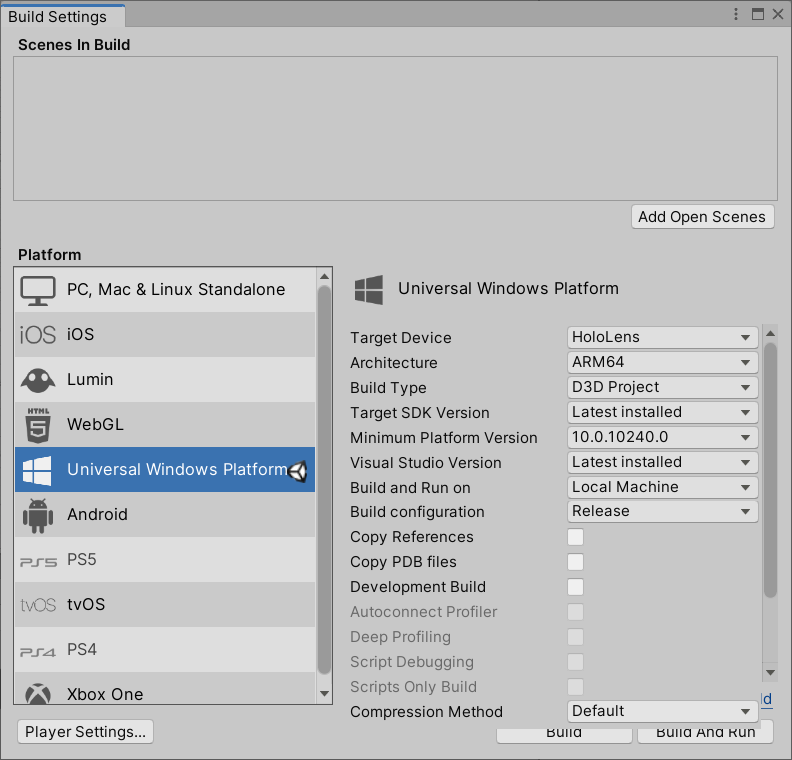
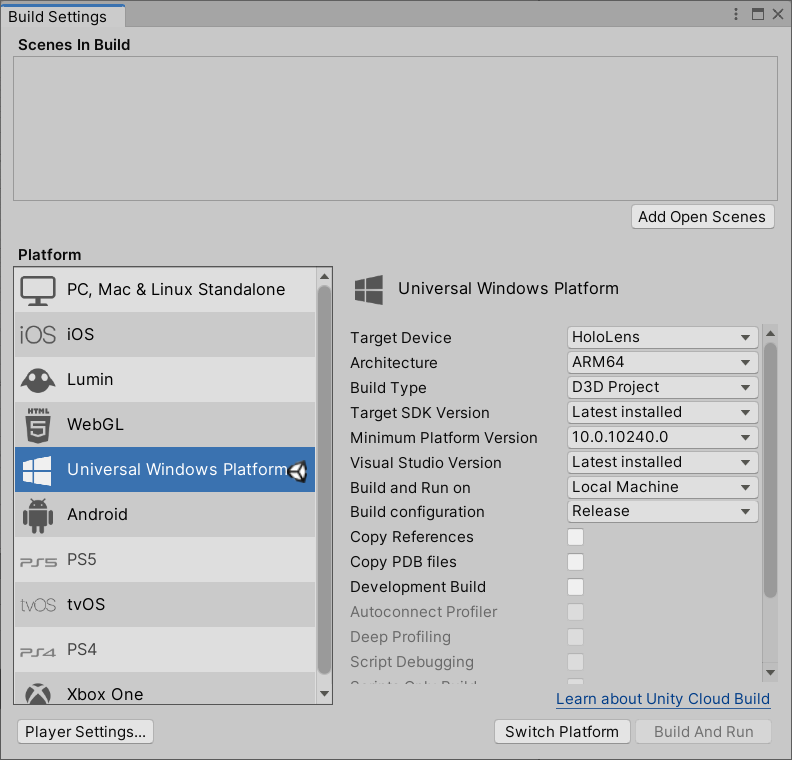
vt-review-edits-042022-1523

Changed region(s): [[0.4545, 0.8776, 0.9697, 0.9684]]

diff --git a/mixed-reality-docs/mr-dev-docs/develop/unity/new-openxr-project-with-mrtk.md b/mixed-reality-docs/mr-dev-docs/develop/unity/new-openxr-project-with-mrtk.md
@@ -17,11 +17,17 @@ The easiest way to get your Unity project set up for mixed reality is with the [
 MRTK provides a cross-platform input system, foundational components, and common building blocks for spatial interactions. It can help you speed up your application development for Microsoft HoloLens, Windows Mixed Reality immersive (VR) headsets, and many other VR/AR devices. The project is aimed at reducing barriers to entry, enabling everyone to build mixed reality applications and contribute back to the community as we all grow.
 
 MRTK supports a wide range of platforms, including:
+
     - Microsoft HoloLens
+
     - Microsoft HoloLens 2
+
     - Windows Mixed Reality headsets
+
     - OpenVR headsets (HTC Vive / Oculus Rift)
+
     - Ultraleap Hand Tracking
+
     - Android and iOS devices
 
 > [!NOTE]
@@ -34,9 +40,7 @@ MRTK supports a wide range of platforms, including:
    > [!IMPORTANT]
    > Using this plugin in Unity 2019 is not compatible with Azure Spatial Anchors.
 
-**Legacy XR**:
-
-If you're still on Unity 2019 or earlier, Microsoft recommends using the Legacy Built-in XR support. While the Windows XR plugin is functional on Unity 2019, we don't recommend it  because it's not compatible with Azure Spatial Anchors on Unity 2019.
+**Legacy XR**: If you're still on Unity 2019 or earlier, Microsoft recommends using the Legacy Built-in XR support. While the Windows XR plugin is functional on Unity 2019, we don't recommend it  because it's not compatible with Azure Spatial Anchors on Unity 2019.
 
 If you're starting a new project, we recommend that you install Unity 2020 instead and use the Mixed Reality OpenXR plugin.
 
@@ -64,15 +68,21 @@ If you're starting a new project, we recommend that you install Unity 2020 inste
 > [!CAUTION]
 > When working on Windows, there is a MAX_PATH limit of 255 characters. Unity is affected by these limits and may fail to compile if any file path is longer than 255 characters. Therefore, we recommend that you store your Unity project as close to the root of the drive as possible.
 
-## Configure your project for Windows Mixed Reality
+## Set your build target
 
-**Switch Build Platform**
+1. On the menu bar, select **File** > **Build Settings...**.
 
-To target Windows Mixed Reality, your Unity project must be set to export as a Universal Windows Platform app. By default, the build settings for the Universal Windows Platform target any device, including immersive headsets. However, you can select a specific device using the **Target Device** drop down.
+To build an app for Windows Mixed Reality, you must choose a build target. The build settings for Universal Windows Platform (UWP) target any device, including immersive headsets like the [HP Reverb G2](d/hp-reverb-g2-vr-headset/93qb262d0514?activetab=pivot:overviewtab). This is the best choice if you're building for the HoloLens 2; however, if you're targeting desktop VR, we recommend that you use the **PC, Mac & Linux Standalone** platform.
 
-1. In the menu bar, select **File** > **Build Settings...**.
-1. In the **Build Settings** window under **Platform**, select **Universal Windows Platform**.
-1. Make sure the following settings are active:
+1. Do one of the following:
+
+    **If you're targeting Desktop VR**:
+    - Keep the **PC, Mac & Linux Standalone** platform which is selected by default on a new Unity project:
+
+    ![Screenshot of Build Settings window open in the unity editor with PC, Mac & Standalone platform highlighted](images/wmr-config-img-3.png)
+
+    **If you're targeting the HoloLens 2**:
+    - Under **Platform**, select **Universal Windows Platform**. Make sure the following settings are active:
 
     **Target device**: HoloLens
 
@@ -90,10 +100,14 @@ To target Windows Mixed Reality, your Unity project must be set to export as a U
 
     **Build configuration**: Release (there are known performance issues with Debug)
 
+    ![Screenshot of Build Settings window open in the unity editor with Universal Windows Platform highlighted.](images/030-build-settings-uwp.png)
+
 1. Click the **Switch Platform** button. Unity displays a progress bar while it switches platforms.
 1. After the switch platform process is finished, close the **Build Settings** window.
 
-## Import the MRTK Foundation package
+![Screenshot of Build Settings window open in unity editor with Universal Windows Platform highlighted](images/030-build-settings-uwp.png)
+
+## Download and install the Mixed Reality Feature Tool
 
  The best way to discover, update, and import feature packages is with the Mixed Reality Feature Tool. You can search packages by name or category, see their dependencies, and view proposed changes to your project's manifest file before importing.
 
@@ -106,6 +120,8 @@ To target Windows Mixed Reality, your Unity project must be set to export as a U
 1. In the unzipped folder, navigate to the executable file **MixedRealityFeatureTool.exe** and then use it to launch the Mixed Reality Feature Tool.
 
     :::image type="content" source="images/open-mixed-reality-feature-tool.png" alt-text="Screenshot of Opening MixedRealityFeatureTool.":::
+
+## Import the Mixed Reality OpenXR plugin
 
 1. In the Mixed Reality Feature Tool, select **Start**.
 
@@ -164,7 +180,28 @@ To target Windows Mixed Reality, your Unity project must be set to export as a U
 
     :::image type="content" source="images/011-show-xr-plugin-management.png" alt-text="Screenshot of the Show XR Plug-In Management Settings button.":::
 
-1. The **Project Settings** window opens. Ensure that you're on the **XR Plug-in Management** page with the Universal Windows Platform settings (Windows logo tab) displayed.
+## Configure the project for desktop VR
+
+If you're developing for the HoloLens2, skip this section and go to the next one, [Configure the project for the HoloLens 2](#configure-the-project-for-the-hololens-2).
+
+1. On the menu bar, select **Edit** > **Project Settings**.
+1. In the **Project Settings** window, ensure that you're on the **XR Plug-in Management** page and in the **PC, Mac & Linux Standalone** tab.
+
+    :::image type="content" source="images/028-xr-plugin-mgmt-only.png" alt-text="Screenshot of the Project Settings Window open to the XR Plugin Management Page and PC, Mac & Linux Standalone tab.":::
+
+ 1. Ensure that **Initialize XR on Startup** is selected, and then, under **Plugin Providers**, click **Open XR**.
+
+    :::image type="content" source="images/031-init-xr-on-startup.png" alt-text="Screenshot of the Project Settings Window, inside the PC, Mac & Linux Standalone tab, with Initialize XR on Startup selected and the OpenXR Plugin highlighted.":::
+
+1. The OpenXR Plugin loads, and then two items appear underneath **OpenXR**. Select the first one, **Windows Mixed Reality feature group**.
+
+    :::image type="content" source="images/032-wmr-feature-group.png" alt-text="Screenshot of Project Settings Window the OpenXR Plugin and Windows Mixed Reality feature group highlighted.":::
+
+Note that there's now a yellow warning triangle next to **OpenXR**. This indicates that you have incompatible settings that need to be resolved. To find out how to address this, skip the next section about configuring the HoloLens 2 and continue on with the following section, [Resolving incompatible settings](#resolving-incompatible-settings).
+
+## Configure the project for the HoloLens 2
+
+1. In the **Project Settings** window, ensure that you're on the **XR Plug-in Management** page with the Universal Windows Platform settings (Windows logo tab) selected.
 
     :::image type="content" source="images/012-xr-plugin-mgmt-page.png" alt-text="Screenshot of the Project Settings Window open to the XR Plugin Management Page and Universal Windows Platform tab.":::
 
@@ -172,9 +209,15 @@ To target Windows Mixed Reality, your Unity project must be set to export as a U
 
     :::image type="content" source="images/013-init-xr-on-startup.png" alt-text="Screenshot of Project Settings Window 3.":::
 
-1. The OpenXR Plugin loads, and then two items appear underneath **OpenXR**. Select the first one, **Microsoft HoloLens feature group**.
+1. Two items appear underneath **OpenXR**. Select the first one, **Microsoft HoloLens feature group**.
 
-1. Note that there's now a yellow warning triangle next to **OpenXR**. Hover your cursor over the triangle, then read the message in the popup, and then select the triangle.
+Note that there's a yellow warning triangle next to **OpenXR**. This indicates that you have incompatible settings that need to be resolved.
+
+## Resolving incompatible settings
+
+The images in this section show the options in the Universal Windows Platform tab. However, the instructions are the same for the Desktop VR tab, except where noted.
+
+1. Hover your cursor over the yellow warning triangle next to **OpenXR**, then read the message in the popup, and then select the triangle.
 
     :::image type="content" source="images/014-yellow-triangle-warning.png" alt-text="Screenshot of warning about incompatible settings.":::
 
@@ -224,17 +267,9 @@ To target Windows Mixed Reality, your Unity project must be set to export as a U
     > [!NOTE]
     > The **Render Mode** setting, located just above **Depth Submission Mode**, is set by default to **Single Pass Instanced**. In mixed reality apps, the scene is rendered twice: once for each eye. The result is "stereoscopic vision." This doubles the amount of necessary computing, so it's important to select the most efficient rendering path in Unity to save on both CPU and GPU time. Single pass instanced rendering is the best choice here--we recommend that you enable it by default for every project. To learn more about this, [see the Unity documentation](https://docs.unity3d.com/Manual/SinglePassInstancing.html).
 
-1. Close the **Project Settings** window.
-1. In the **MRTK Project Configurator** window, select **Apply Settings**.
+1. Close **MRTK Project Configurator** window.
 
-    :::image type="content" source="images/022-configurator-apply-settings.png" alt-text="Screenshot of MRTK Project Configurator with the Apply Settings button.":::
-
-1. Select **Next** and then **Apply**. 
-1. Unity must restart in order for the configuration to take effect. When prompted, select **Apply** to restart the Unity editor.
-
-## Configure project settings for OpenXR
-
-1. After Unity restarts, in the menu bar, select **Edit** > **Project Settings...**.
+## Configure Player settings
 
 1. In the **Project Settings** window's left-side column, select **Player**.
 1. Note that in the **Player** window, the **Product Name** box is already filled. This is taken from your project name and will be the name displayed in the HoloLens Start menu.
@@ -255,13 +290,13 @@ To target Windows Mixed Reality, your Unity project must be set to export as a U
 
 ### Optimization
 
-If you're developing for HoloLens 2, select the **Mixed Reality > Project > Apply recommended project settings for HoloLens 2** menu item to get better app performance.
+If you're developing for HoloLens 2, on the menu bar, select the **Mixed Reality > Project > Apply recommended project settings for HoloLens 2** to get better app performance.
 
 ![Screenshot of the mixed reality menu item open with OpenXR selected](images/openxr-img-08.png)
 
 You're now ready to begin developing with OpenXR in Unity!
 
-### Unity sample projects for OpenXR and HoloLens 2
+### Unity sample projects
 
 Check out the [OpenXR Mixed Reality samples repo](https://github.com/microsoft/OpenXR-Unity-MixedReality-Samples) for sample unity projects showcasing how to build Unity applications for HoloLens 2 or Mixed Reality headsets using the Mixed Reality OpenXR plugin.
 

diff --git a/mixed-reality-docs/mr-dev-docs/develop/unity/new-openxr-project-without-mrtk.md b/mixed-reality-docs/mr-dev-docs/develop/unity/new-openxr-project-without-mrtk.md
@@ -53,12 +53,12 @@ If you're starting a new project, we recommend that you install Unity 2020 inste
 
 1. On the menu bar, select **File** > **Build Settings...**.
 
-To build an app for Windows Mixed Reality, you must choose a build target. The build settings for Universal Windows Platform (UWP) target any device, including immersive headsets. This is the best choice if you're building for the HoloLens 2; however, if you're targeting desktop VR, we recommend that you use the **PC, Mac & Linux Standalone** platform.
+To build an app for Windows Mixed Reality, you must choose a build target. The build settings for Universal Windows Platform (UWP) target any device, including immersive headsets like the [HP Reverb G2](d/hp-reverb-g2-vr-headset/93qb262d0514?activetab=pivot:overviewtab). This is the best choice if you're building for the HoloLens 2; however, if you're targeting desktop VR, we recommend that you use the **PC, Mac & Linux Standalone** platform.
 
 1. Do one of the following:
 
     **If you're targeting Desktop VR**:
-    - Keep the **PC, Mac & Linux Standalone** platform selected by default on a new Unity project:
+    - Keep the **PC, Mac & Linux Standalone** platform which is selected by default on a new Unity project:
 
     ![Screenshot of Build Settings window open in the unity editor with PC, Mac & Standalone platform highlighted](images/wmr-config-img-3.png)
 
@@ -86,7 +86,7 @@ To build an app for Windows Mixed Reality, you must choose a build target. The b
 1. Click the **Switch Platform** button. Unity displays a progress bar while it switches platforms.
 1. After the switch platform process is finished, close the **Build Settings** window.
 
-![Screenshot of Build Settings window open in unity editor with Universal Windows Platform highlighted](images/030-build-settings-uwp.png)
+![Screenshot of Build Settings window open in the Unity editor with Universal Windows Platform highlighted.](images/030-build-settings-uwp.png)
 
 ## Download and install the Mixed Reality Feature Tool
 
@@ -137,10 +137,13 @@ The Mixed Reality OpenXR Plugin comes in the form of a package for Unity. The be
 1. When you're ready to move on, select **Import.** On the **Review and Approve** page, you can review information about the package.
 1. Select **Approve.**
 1. Return to the Unity Editor and click a blank area in the UI. You'll see a progress bar showing you that your package is being imported.
+1. After Unity has imported the package, a warning appears asking if you want to enable the backends by restarting the editor. Select **Yes**.
+
+    :::image type="content" source="images/unity-restart-option.png" alt-text="Screenshot of Unity Restart Option.":::
 
 ## Configure the project for desktop VR
 
-If you're developing for the HoloLens2, skip this section and go to the next one, Configure the project for the HoloLens 2.
+If you're developing for the HoloLens2, skip this section and go to the next one, [Configure the project for the HoloLens 2](#configure-the-project-for-the-hololens-2).
 
 1. On the menu bar, select **Edit** > **Project Settings**.
 1. In the **Project Settings** window, ensure that you're on the **XR Plug-in Management** page and in the **PC, Mac & Linux Standalone** tab.
@@ -240,17 +243,34 @@ The images in this section show the options in the Universal Windows Platform ta
     > [!NOTE]
     > The **Render Mode** setting, located just above **Depth Submission Mode**, is set by default to **Single Pass Instanced**. In mixed reality apps, the scene is rendered twice: once for each eye. The result is "stereoscopic vision." This doubles the amount of necessary computing, so it's important to select the most efficient rendering path in Unity to save on both CPU and GPU time. Single pass instanced rendering is the best choice here--we recommend that you enable it by default for every project. To learn more about this, [see the Unity documentation](https://docs.unity3d.com/Manual/SinglePassInstancing.html).
 
+## Configure Player settings
+
+1. In the **Project Settings** window's left-side column, select **Player**.
+1. Note that in the **Player** window, the **Product Name** box is already filled. This is taken from your project name and will be the name displayed in the HoloLens Start menu.
+
+    :::image type="content" source="images/025-product-name.png" alt-text="Screenshot of Unity Publishing Settings with the Project Name box filled in.":::
+
+    > [!TIP]
+    > To make the app easier to locate during development, add an underscore in front of the name to sort it to the top of any list.
+
+1. Click the **Publishing Settings** drop down, and then in the **Package name** field, enter a suitable name.
+
+    :::image type="content" source="images/026-package-name.png" alt-text="Screenshot of Unity Publishing Settings with the package name box filled in.":::
+
+    > [!NOTE]
+    > The package name is the unique identifier for the app. If you want to avoid overwriting previously installed versions of the app with the same name, you should change this identifier before deploying the app.
+
 1. Close the **Project Settings** window.
 
 ### Optimization
 
-If you're developing for HoloLens 2, select the **Mixed Reality > Project > Apply recommended project settings for HoloLens 2** menu item to get better app performance.
+If you're developing for HoloLens 2, on the menu bar, **Mixed Reality > Project > Apply recommended project settings for HoloLens 2** to get better app performance.
 
 ![Screenshot of the mixed reality menu item open with OpenXR selected](images/openxr-img-08.png)
 
 You're now ready to begin developing with OpenXR in Unity!
 
-### Unity sample projects for OpenXR and HoloLens 2
+### Unity sample projects
 
 Check out the [OpenXR Mixed Reality samples repo](https://github.com/microsoft/OpenXR-Unity-MixedReality-Samples) for sample unity projects showcasing how to build Unity applications for HoloLens 2 or Mixed Reality headsets using the Mixed Reality OpenXR plugin.
 
